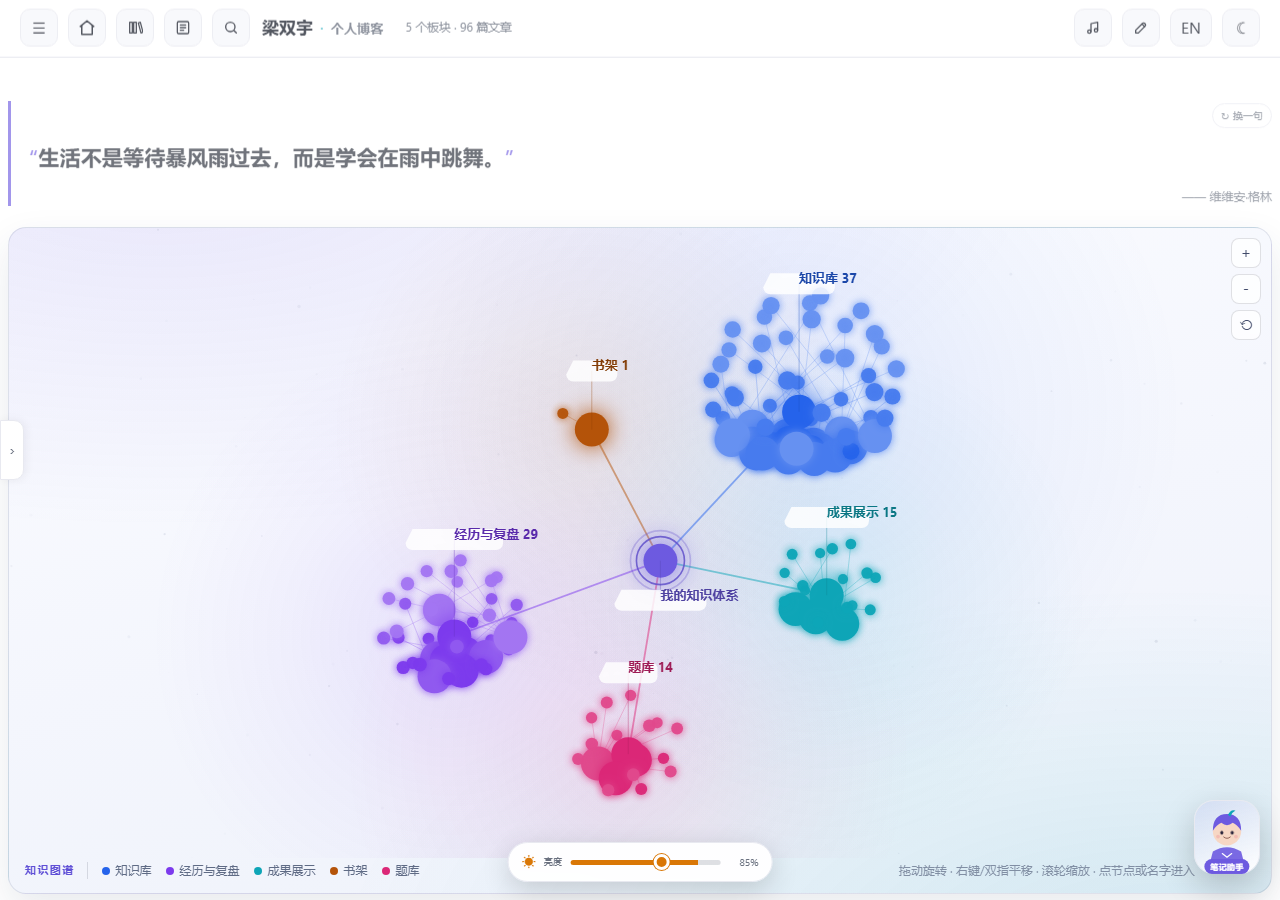
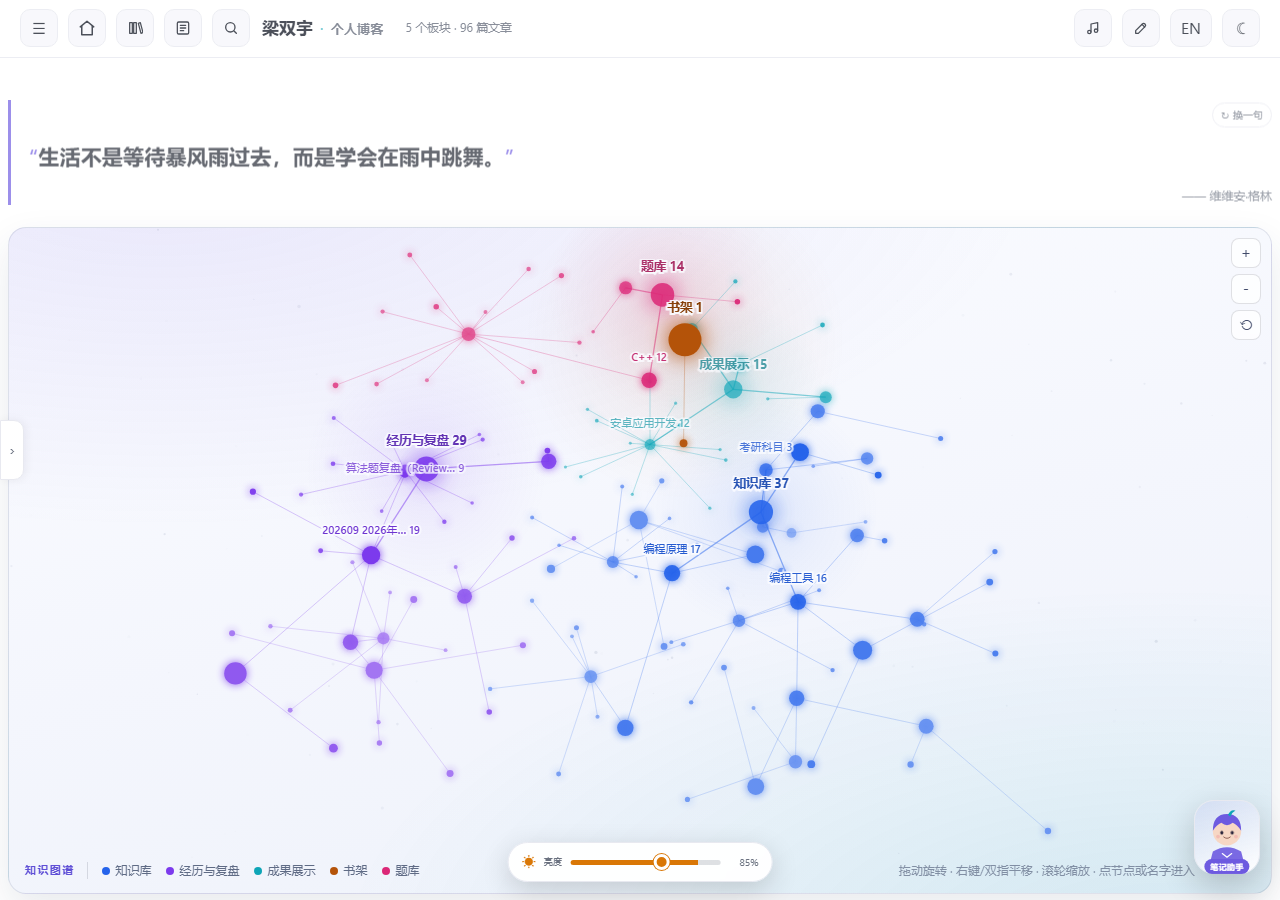
Rebuild the knowledge graph as a per-category 3D network
- every category is its own hub with its articles attached; categories link to their parent folder, so the graph is one 3D net instead of five big balls

- light force relaxation spreads the nodes; the layout is squashed vertically to fit the wide canvas

- labels are plain haloed text (no chips), placed above the node and clickable

- dark preview added

diff --git a/src/satellite.js b/src/satellite.js
@@ -48,7 +48,8 @@
       star: v('--sat-star', 'rgba(31,36,48,.35)'),
       ring: v('--sat-ring', 'rgba(31,36,48,.18)'),
       tipBg: v('--sat-tip-bg', 'rgba(255,255,255,.97)'),
-      tipBorder: v('--sat-tip-border', 'rgba(31,36,48,.14)')
+      tipBorder: v('--sat-tip-border', 'rgba(31,36,48,.14)'),
+      halo: v('--sat-halo', 'rgba(250,251,255,.95)')
     };
   }
 
@@ -183,100 +184,129 @@
       layoutBranch(secIndexes[i], baseAngle - half, baseAngle + half, anchor);
     }
 
-    // ---------- 3D 团簇：中间一个「我的知识体系」中心，五个板块各成一球，绕中心分开摆 ----------
-    function bubbleLayout() {
-      var ci, cj, k, q;
-
-      // 体系中心节点：点它进知识库首页
-      var hub = {
-        kind: 'hub',
-        label: '我的知识体系',
-        color: '#6d5ae0',
-        depth: 0,
-        parentIndex: -1,
-        idx: nodes.length,
-        r: 13,
-        x: 0, y: 0, z: 0,
-        rel: nodes[secIndexes.length ? secIndexes[0] : 0].rel
-      };
-      nodes.push(hub);
+    // ---------- 树状知识图谱：每个分类（标签）自己是一个中心，文章围着自己的分类转 ----------
+    function treeLayout() {
+      var ci, k;
+      var GOLD = 2.399963229728653;
 
       var n = nodes.length;
-      var owner = new Int32Array(n);
-      owner[hub.idx] = -1;
-      for (ci = 0; ci < secIndexes.length; ci++) {
-        var stack = [secIndexes[ci]];
-        while (stack.length) {
-          var cur = stack.pop();
-          owner[cur] = ci;
-          for (q = 0; q < n; q++) if (nodes[q].parentIndex === cur) stack.push(q);
-        }
+
+      // 子树规模：文章算 1，目录算自己和所有后代
+      for (ci = 0; ci < n; ci++) nodes[ci].sub = 1;
+      for (ci = n - 1; ci >= 0; ci--) {
+        var p = nodes[ci].parentIndex;
+        if (p >= 0) nodes[p].sub += nodes[ci].sub;
       }
 
-      var members = [];
-      for (ci = 0; ci < secIndexes.length; ci++) members.push([]);
-      for (k = 0; k < n; k++) {
-        if (k === hub.idx) continue;
-        members[owner[k]].push(k);
-      }
-
-      var R = [];
-      for (ci = 0; ci < members.length; ci++) {
-        R.push(26 + 15 * Math.cbrt(Math.max(1, members[ci].length)));
-      }
-
-      // 五个方向手排：右下、左、右、左下、上，保证默认视角里五团互不重叠
-      var dirs = [];
-      var rawDirs = [
-        { x: 0.55, y: -0.72, z: 0.42 },
-        { x: -0.88, y: 0.28, z: 0.38 },
-        { x: 0.86, y: 0.30, z: -0.42 },
-        { x: -0.52, y: -0.62, z: -0.58 },
-        { x: -0.12, y: 0.95, z: 0.28 }
-      ];
-      for (ci = 0; ci < rawDirs.length; ci++) {
-        var dd = rawDirs[ci];
-        var dl = Math.sqrt(dd.x * dd.x + dd.y * dd.y + dd.z * dd.z) || 1;
-        dirs.push({ x: dd.x / dl, y: dd.y / dl, z: dd.z / dl });
-      }
-      var HUB_R = 96;
-      var GAP = 46;
-
-      var GOLD = 2.399963229728653;
-      for (ci = 0; ci < members.length; ci++) {
-        var d = dirs[ci % dirs.length];
-        var dist = HUB_R + R[ci] + GAP;
-        var c = { x: d.x * dist, y: d.y * dist, z: d.z * dist };
-
-        var list = members[ci].slice();
-        list.sort(function (a, b) {
-          var da = nodes[a].kind === 'section' ? 0 : nodes[a].depth;
-          var db = nodes[b].kind === 'section' ? 0 : nodes[b].depth;
-          if (da !== db) return da - db;
-          return a - b;
+      function kidsOf(i) {
+        var out = [];
+        for (var q = 0; q < n; q++) if (nodes[q].parentIndex === i) out.push(q);
+        out.sort(function (a, b) {
+          var ka = nodes[a].kind === 'doc' ? 1 : 0;
+          var kb = nodes[b].kind === 'doc' ? 1 : 0;
+          if (ka !== kb) return ka - kb;
+          return nodes[b].sub - nodes[a].sub;
         });
+        return out;
+      }
 
-        for (var ii = 0; ii < list.length; ii++) {
-          var nd = nodes[list[ii]];
-          if (nd.kind === 'section') {
-            nd.x = c.x; nd.y = c.y; nd.z = c.z;
-            nd.bubbleR = R[ci];
-            continue;
-          }
-          // 黄金角 + 体积均匀，把节点摊成实心球，而不是一个平面圆盘
-          var u = (ii + 0.5) / list.length;
-          var rad = R[ci] * Math.cbrt(u);
+      function place(i, cx, cy, cz) {
+        var kids = kidsOf(i);
+        if (!kids.length) return;
+        var radius = 22 + 7 * Math.sqrt(nodes[i].sub);
+        for (var j = 0; j < kids.length; j++) {
+          var kid = nodes[kids[j]];
+          var u = (j + 0.5) / kids.length;
           var vy = 1 - 2 * u;
           var ring = Math.sqrt(Math.max(0, 1 - vy * vy));
-          var phi = ii * GOLD;
-          nd.x = c.x + Math.cos(phi) * ring * rad;
-          nd.y = c.y + vy * rad;
-          nd.z = c.z + Math.sin(phi) * ring * rad;
+          var phi = j * GOLD + i * 0.9;
+          kid.x = cx + Math.cos(phi) * ring * radius;
+          kid.y = cy + vy * radius;
+          kid.z = cz + Math.sin(phi) * ring * radius;
+          if (kid.kind !== 'doc') place(kids[j], kid.x, kid.y, kid.z);
         }
       }
+
+      // 五个板块是五条独立的根系，各自向外生长
+      for (k = 0; k < secIndexes.length; k++) {
+        var rootNode = nodes[secIndexes[k]];
+        var u0 = (k + 0.5) / Math.max(1, secIndexes.length);
+        var vy0 = 1 - 2 * u0;
+        var ring0 = Math.sqrt(Math.max(0, 1 - vy0 * vy0));
+        var phi0 = k * GOLD;
+        rootNode.x = Math.cos(phi0) * ring0 * 150;
+        rootNode.y = vy0 * 150;
+        rootNode.z = Math.sin(phi0) * ring0 * 150;
+        place(secIndexes[k], rootNode.x, rootNode.y, rootNode.z);
+      }
+
+      // 轻量力导向：把挤在一团的节点推开，连线拉回，得到一张松散的网
+      var fx = new Float64Array(n), fy = new Float64Array(n), fz = new Float64Array(n);
+      var vx = new Float64Array(n), vy = new Float64Array(n), vz = new Float64Array(n);
+      var ITER = 240, step, i2, q2;
+      for (step = 0; step < ITER; step++) {
+        var cool = 1 - 0.75 * (step / ITER);
+        for (k = 0; k < n; k++) { fx[k] = 0; fy[k] = 0; fz[k] = 0; }
+
+        // 父子弹簧
+        for (k = 0; k < n; k++) {
+          var pi = nodes[k].parentIndex;
+          if (pi < 0) continue;
+          var sdx = nodes[k].x - nodes[pi].x;
+          var sdy = nodes[k].y - nodes[pi].y;
+          var sdz = nodes[k].z - nodes[pi].z;
+          var sd = Math.sqrt(sdx * sdx + sdy * sdy + sdz * sdz);
+          if (sd < 0.01) sd = 0.01;
+          var rest = nodes[k].kind === 'doc' ? 54 : 74;
+          var sf = (sd - rest) * 0.02 / sd;
+          fx[k] -= sdx * sf; fy[k] -= sdy * sf; fz[k] -= sdz * sf;
+          fx[pi] += sdx * sf; fy[pi] += sdy * sf; fz[pi] += sdz * sf;
+        }
+
+        // 节点互斥
+        for (i2 = 0; i2 < n; i2++) {
+          for (q2 = i2 + 1; q2 < n; q2++) {
+            var ddx = nodes[q2].x - nodes[i2].x;
+            var ddy = nodes[q2].y - nodes[i2].y;
+            var ddz = nodes[q2].z - nodes[i2].z;
+            var d2 = ddx * ddx + ddy * ddy + ddz * ddz;
+            if (d2 > 90000) continue;          // 300 以外不算
+            var rf = 9000 / (d2 + 1400);
+            fx[i2] -= ddx * rf; fy[i2] -= ddy * rf; fz[i2] -= ddz * rf;
+            fx[q2] += ddx * rf; fy[q2] += ddy * rf; fz[q2] += ddz * rf;
+          }
+        }
+
+        // 很弱的向心力，别让整张网飘散
+        for (k = 0; k < n; k++) {
+          fx[k] -= nodes[k].x * 0.0009;
+          fy[k] -= nodes[k].y * 0.0009;
+          fz[k] -= nodes[k].z * 0.0009;
+        }
+
+        for (k = 0; k < n; k++) {
+          vx[k] = (vx[k] + fx[k] * 0.5) * 0.88;
+          vy[k] = (vy[k] + fy[k] * 0.5) * 0.88;
+          vz[k] = (vz[k] + fz[k] * 0.5) * 0.88;
+          var mx = vx[k] * cool, my = vy[k] * cool, mz = vz[k] * cool;
+          var mag = Math.sqrt(mx * mx + my * my + mz * mz);
+          if (mag > 5) { mx *= 5 / mag; my *= 5 / mag; mz *= 5 / mag; }
+          nodes[k].x += mx;
+          nodes[k].y += my;
+          nodes[k].z += mz;
+        }
+      }
+
+      // 竖向压一点，整张图更贴合横向画布
+      for (k = 0; k < n; k++) nodes[k].y *= 0.72;
+
+      // 重新居中
+      var ox = 0, oy = 0, oz = 0;
+      for (k = 0; k < n; k++) { ox += nodes[k].x / n; oy += nodes[k].y / n; oz += nodes[k].z / n; }
+      for (k = 0; k < n; k++) { nodes[k].x -= ox; nodes[k].y -= oy; nodes[k].z -= oz; }
     }
 
-    bubbleLayout();
+    treeLayout();
     var homeCenter = { x: 0, y: 0, z: 0 };
 
     var focusPos = { x: homeCenter.x, y: homeCenter.y, z: homeCenter.z };
@@ -480,32 +510,22 @@
     }
 
     function drawLinks(showDeep) {
-      var hubScreen = null;
-      for (var h = 0; h < screen.length; h++) {
-        if (screen[h].node.kind === 'hub') { hubScreen = screen[h]; break; }
-      }
       for (var i = 0; i < screen.length; i++) {
         var it = screen[i];
         var nd = it.node;
-        var parent = null;
         if (nd.kind === 'hub') continue;
-        if (nd.kind === 'section') {
-          // 板块连回体系中心，这五条就是「一个中心」的骨架
-          parent = hubScreen;
-          if (!parent) continue;
-          ctx.globalAlpha = 0.5;
-          ctx.lineWidth = 1.8;
-        } else if (nd.kind === 'doc') {
+        var parent = nd.parentIndex >= 0 ? findScreen(nodes[nd.parentIndex]) : null;
+        if (!parent) continue;
+        if (nd.kind === 'doc') {
           if (!showDeep) continue;
-          parent = findScreen(nodes[nd.parentIndex]);
-          if (!parent) continue;
-          ctx.globalAlpha = 0.30;
+          ctx.globalAlpha = 0.28;
           ctx.lineWidth = 1;
+        } else if (nd.depth === 1) {
+          ctx.globalAlpha = 0.5;
+          ctx.lineWidth = 1.5;
         } else {
-          parent = nd.parentIndex >= 0 ? findScreen(nodes[nd.parentIndex]) : null;
-          if (!parent) continue;
-          ctx.globalAlpha = nd.depth === 2 ? 0.55 : 0.36;
-          ctx.lineWidth = nd.depth === 2 ? 1.6 : 1.1;
+          ctx.globalAlpha = nd.depth === 2 ? 0.5 : 0.32;
+          ctx.lineWidth = nd.depth === 2 ? 1.3 : 1;
         }
         ctx.strokeStyle = nd.color;
         ctx.beginPath();
@@ -605,25 +625,14 @@
         var c = screen[i];
         if (c.node.kind === 'doc') continue;
         if (c.s < 0.1) continue;
-        if (c.node.depth >= 3) continue;
-        if (c.node.depth === 2 && !(hover && owner[c.node.idx] === owner[hover.node.idx]) && dist > fitDist * 0.78) continue;
+        if (c.node.depth > 2) continue;
+        if (c.node.depth === 2 && (c.node.count || 0) < 2 && !(hover && hover.node === c.node)) continue;
         if (hover && dimmed(c.node)) continue;
-        var dx = c.x - w / 2, dy = c.y - h / 2;
-        var dl = Math.sqrt(dx * dx + dy * dy) || 1;
-        var lx, ly;
-        if (c.node.depth === 0) {
-          lx = c.x;
-          ly = c.y + c.r + 22;
-        } else if (c.node.depth === 1) {
-          lx = c.x;
-          ly = c.y - ((c.node.bubbleR || 40) * c.s + 20);
-        } else {
-          lx = c.x + dx / dl * (c.r + 14);
-          ly = c.y + dy / dl * (c.r + 14);
-        }
+        var lx = c.x;
+        var ly = c.node.depth === 0 ? c.y + c.r + 18 : c.y - (c.r + 15);
         labels.push({
           node: c.node, x0: c.x, y0: c.y, lx: lx, ly: ly,
-          alpha: clamp(c.s * 2.4, 0.4, 1),
+          alpha: clamp(c.s * 2.4, 0.45, 1),
           w: ctx.measureText(c.node.label).width,
           h: 16,
           big: c.node.depth <= 1
@@ -646,29 +655,25 @@
           }
         }
         boxes.push({ x: L.lx, y: L.ly, w: L.w, h: L.h });
-        ctx.font = (L.big ? '700 13px ' : '600 11.5px ') + fontFamily;
+        ctx.font = (L.big ? '700 12.5px ' : '500 11px ') + fontFamily;
         L.w = ctx.measureText(L.node.label).width;
         labelHits.push({
           node: L.node,
-          x: L.lx - L.w / 2 - 8, y: L.ly - 12, w: L.w + 16, h: 24
+          x: L.lx - L.w / 2 - 6, y: L.ly - 11, w: L.w + 12, h: 22
         });
-        ctx.globalAlpha = L.alpha * 0.35;
-        ctx.strokeStyle = cl.dark ? mixWhite(L.node.color, 0.3) : mixBlack(L.node.color, 0.2);
-        ctx.lineWidth = 1;
-        ctx.beginPath();
-        ctx.moveTo(L.x0, L.y0);
-        ctx.lineTo(L.lx, L.ly);
-        ctx.stroke();
-        ctx.globalAlpha = L.alpha * (cl.dark ? 0.9 : 0.92);
-        ctx.fillStyle = cl.chip;
-        roundRect(L.lx - L.w / 2 - 7, L.ly - 10, L.w + 14, 21, 7);
-        ctx.fill();
         ctx.globalAlpha = L.alpha;
+        ctx.textAlign = 'center';
+        ctx.textBaseline = 'middle';
+        ctx.lineWidth = 3;
+        ctx.strokeStyle = cl.halo;
+        ctx.strokeText(L.node.label, L.lx, L.ly);
         ctx.fillStyle = cl.dark
-          ? mixWhite(L.node.color, L.big ? 0.62 : 0.5)
-          : mixBlack(L.node.color, L.big ? 0.28 : 0.16);
+          ? mixWhite(L.node.color, L.big ? 0.72 : 0.6)
+          : mixBlack(L.node.color, L.big ? 0.25 : 0.12);
         ctx.fillText(L.node.label, L.lx, L.ly);
       }
+      ctx.textAlign = 'left';
+      ctx.textBaseline = 'alphabetic';
       ctx.globalAlpha = 1;
     }
 

diff --git a/src/search.css b/src/search.css
@@ -76,6 +76,7 @@
   --sat-ring: rgba(70, 84, 120, .22);
   --sat-tip-bg: rgba(255, 255, 255, .97);
   --sat-tip-border: rgba(35, 42, 61, .14);
+  --sat-halo: rgba(250, 251, 255, .95);
   --sat-kicker: #5f4fd6;
   --sat-btn-bg: rgba(255, 255, 255, .78);
   --sat-btn-border: rgba(35, 42, 61, .14);
@@ -99,6 +100,7 @@
   --sat-ring: rgba(148, 163, 184, .55);
   --sat-tip-bg: rgba(9, 15, 28, .94);
   --sat-tip-border: rgba(148, 163, 184, .35);
+  --sat-halo: rgba(9, 14, 26, .88);
   --sat-kicker: #c7b8ff;
   --sat-btn-bg: rgba(9, 15, 28, .55);
   --sat-btn-border: rgba(148, 163, 184, .32);

diff --git a/build_blog.py b/build_blog.py
@@ -1913,7 +1913,7 @@ def build_satellite(sections, docs, dir_docs, child_dirs, only=None):
 
     return (
         '<div class="satellite" id="sections">\n'
-        '<canvas class="sat-canvas" role="img" aria-label="知识图谱：中心是我的知识体系，五个板块各成一团，拖动旋转、滚轮缩放、点节点进入"></canvas>\n'
+        '<canvas class="sat-canvas" role="img" aria-label="知识图谱：每个分类是中心，文章挂在分类下，拖动旋转、滚轮缩放、点节点进入"></canvas>\n'
         '<div class="sat-tools">'
         '<button type="button" data-sat-zoom="in" title="放大" aria-label="放大">＋</button>'
         '<button type="button" data-sat-zoom="out" title="缩小" aria-label="缩小">－</button>'

diff --git a/README.md b/README.md
@@ -27,7 +27,7 @@
 
 ## 页面层级
 
-- 首页：名言警句 + 左侧板块导航 + 顶栏搜索 + 音乐播放器 + 3D 知识图谱（中间是「我的知识体系」中心，五个板块各成一球、同球同色；拖动旋转、滚轮缩放，点节点或名字直接进文章 / 分类页）
+- 首页：名言警句 + 左侧板块导航 + 顶栏搜索 + 音乐播放器 + 3D 知识图谱（每个分类 / 标签自己是一个中心，文章挂在分类下面，整张网按板块上色；拖动旋转、滚轮缩放，点节点或名字直接进文章 / 分类页）
 - 知识库：技能点树，一行一个分支 / 一个技能点（文章），缩进与折线表示「分类 → 子分类 → 文章」，点一行进对应页面
 - 板块页：单列展示该板块下的分类，左侧导航随层级展开
 - 分类页：展示子分类，或进入文章阅读页
@@ -176,7 +176,7 @@ d:\My Personal Blogs\
 ## 实现要点
 
 - **渲染**：`build_blog.py` 用 `python-markdown` + `pymdownx`（`mark`/`tilde`/`caret`/`tasklist`/`arithmatex`）复刻 Obsidian 语法；开启 `nl2br` 让单个换行等于换行（与 Obsidian 默认行为一致）；`normalize_math` 把 `\(..\)` / `\[..\]` 统一成 `$..$` / `$$..$$` 并给块公式补空行；`fix_tables` 合并被空行打断的表格。MathJax 3 已自托管在 `site/assets/mathjax/`（`src/mathjax/tex-svg.js` 构建时复制），不再依赖 CDN。
-- **板块导航**：`content/post` 的**顶层目录就是板块**（`01-个人知识体系的构建` 对外显示为「知识库」，另有 `02-竞赛科研经历与复盘`、`03-成果展示`、`书架`、`题库`；`00-导航` 只在本地用，进 `SKIP_DIRS`），板块下的子目录就是分类；首页把全部文章画成一张 3D 知识图谱（canvas：正中是「我的知识体系」中心，五个板块各成一球、球内三维均匀分布并同球同色，中心用连线拉出五个球；拖动旋转可见真实纵深，滚轮缩放，悬停显示标题，**点节点或名字直接进入**文章 / 分类页），数据由生成器以 JSON 写进页面，JS 里没有外部依赖；「知识库」板块页则用同一套目录数据渲染成技能点树（`build_skill_tree`，纯 HTML + CSS，一行一个节点）。
+- **板块导航**：`content/post` 的**顶层目录就是板块**（`01-个人知识体系的构建` 对外显示为「知识库」，另有 `02-竞赛科研经历与复盘`、`03-成果展示`、`书架`、`题库`；`00-导航` 只在本地用，进 `SKIP_DIRS`），板块下的子目录就是分类；首页把全部文章画成一张 3D 知识图谱（canvas：**每个分类 / 标签是一个中心**，文章节点挂在所属分类下面，分类之间按父子关系连成一张 3D 网，颜色按板块区分；拖动旋转可见真实纵深，滚轮缩放，悬停显示标题，**点节点或名字直接进入**文章 / 分类页），数据由生成器以 JSON 写进页面，JS 里没有外部依赖；「知识库」板块页则用同一套目录数据渲染成技能点树（`build_skill_tree`，纯 HTML + CSS，一行一个节点）。
 - **层级侧栏**：`src/search.css` 与生成器共同输出左侧导航；进入板块、分类、子分类时自动展开当前路径，并高亮当前节点。
 - **阅读页**：`src/reading-mode.js` 一次只显示一篇文章，左侧生成文章列表、当前文章目录，并提供独立的上一篇/下一篇卡片；不再按长度切分文章。
 - **软导航**：`src/spa.js` 拦截站内链接，拉取目标页后只替换 `main` 与侧栏卡片，播放器的 `<audio>` 节点始终保留；搜索浮层、抽屉、日历等公共组件不重建。

diff --git a/docs/ARCHITECTURE.md b/docs/ARCHITECTURE.md
@@ -29,7 +29,7 @@ build_blog.py  ──读取 src/*.css / src/*.js──▶  site/
 ## 页面层级
 
 ```
-首页（名言警句 + 知识图谱：中心「我的知识体系」→ 五个板块各成一球 → 分类 → 子分类 → 文章；同球同色，球内是三维分布，点节点或标签直接进入）
+首页（名言警句 + 知识图谱：每个分类 / 标签是一个中心，文章挂在分类下，分类按父子关系连成 3D 网；点节点或标签直接进入）
   ├─ 知识库（技能点树：一行一个分支 / 一个技能点，点一行进对应页面）
   └─ 其他板块（时间线 / 项目卡片墙 / 书架 / 题库）
        └─ 分类页（子分类，或文章阅读页）
